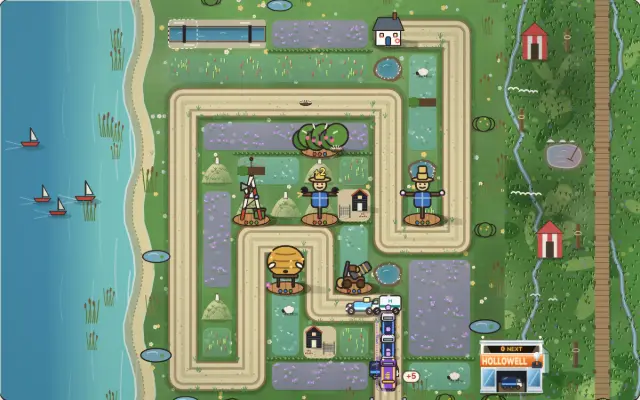
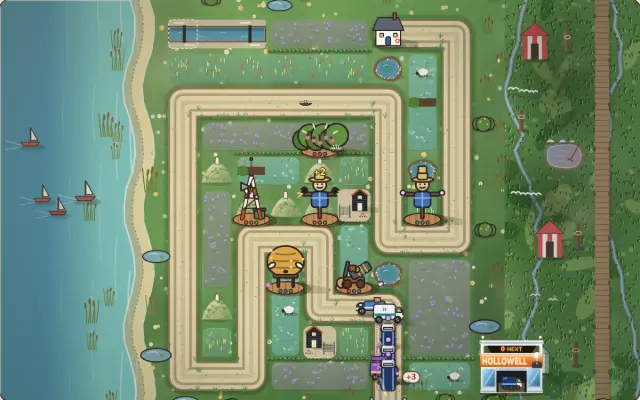
440 slice 1: Hedgerow 2D lit by one sun: vehicles, folk, dogs, hens and Cath cast shadows away from the act's sun (towers and houses already did); a warm wash on the sun side fading to a cool one on the shade side plus a light vignette; sea-lavender beds grey-green with muted mauve sprays (a mauve f
Claude-Session: https://claude.ai/code/session_01SimvMPB319cCQgjkucXjGQ

diff --git a/games/hedgerow/src/folkart.ts b/games/hedgerow/src/folkart.ts
@@ -4,7 +4,7 @@
 // running (leaning in, faster stride), hiding (crouched, arms over the head) and cheering (arms up, a hop).
 
 import type { Folk } from "./farmfolk";
-import { groundShadow, INK } from "./sprites";
+import { castShadow, groundShadow, INK } from "./sprites";
 
 type C = CanvasRenderingContext2D;
 
@@ -45,6 +45,8 @@ function person(ctx: C, f: Folk, x: number, y: number, s: number, t: number): vo
   const neck = hip - h * (0.34 - crouch * 0.3);
   const lean = p.run ? f.facing * h * 0.12 : 0;
   groundShadow(ctx, x, y, h * 0.42, h * 0.12, 0.22);
+  // Plan item 440: a figure throws its shadow away from the act's sun, like the towers and houses
+  castShadow(ctx, x, y, h * 0.12, h * 0.05, h * 0.9, 0.16);
   ctx.save();
   ctx.translate(x, 0);
   ctx.scale(f.facing, 1);
@@ -172,6 +174,7 @@ function dog(ctx: C, f: Folk, x: number, y: number, s: number, t: number): void 
   const lift = p.hop * L * 0.25 + p.bob * L * 0.6;
   const base = y - lift;
   groundShadow(ctx, x, y, L * 0.55, L * 0.14, 0.22);
+  castShadow(ctx, x, y, L * 0.45, L * 0.1, L * 0.7, 0.14);
   ctx.save();
   ctx.translate(x, base);
   ctx.scale(f.facing, 1);
@@ -237,6 +240,7 @@ function hen(ctx: C, f: Folk, x: number, y: number, s: number, t: number): void 
   const flap = p.run || p.cheer ? Math.abs(Math.sin(t * 20 + f.id)) : 0;
   const lift = p.hop * L * 0.4 + p.bob * L * 0.6;
   groundShadow(ctx, x, y, L * 0.5, L * 0.14, 0.2);
+  castShadow(ctx, x, y, L * 0.35, L * 0.1, L * 0.8, 0.14);
   ctx.save();
   ctx.translate(x, y - lift);
   ctx.scale(f.facing, 1);

diff --git a/games/hedgerow/src/fieldkitart.ts b/games/hedgerow/src/fieldkitart.ts
@@ -23,8 +23,9 @@ function rng(seed: number): () => number {
 const FILL: Partial<Record<BedLook, [string, string]>> = {
   // Glassy samphire: a bright yellow-green flush, reddening toward the foot.
   samphire: ["rgba(118,178,128,0.74)", "rgba(104,152,116,0.78)"],
-  // Sea-lavender: grey-green rosettes under a haze of mauve.
-  lavender: ["rgba(166,154,194,0.72)", "rgba(140,134,170,0.76)"],
+  // Sea-lavender: grey-green rosettes under a haze of mauve. Plan item 440: the bed itself is the rosettes' grey-green
+  // (a mauve fill read as purple board tiles); the mauve is only the flower sprays, a step down in value and chroma.
+  lavender: ["rgba(150,156,146,0.72)", "rgba(128,136,124,0.76)"],
   // Salt grazing: a short, blue-grey sward.
   saltgrass: ["rgba(136,198,176,0.72)", "rgba(108,174,156,0.76)"],
   // Hill oats: a green-gold crop in ear.
@@ -341,7 +342,7 @@ function scatter(ctx: C, look: BedLook, x: number, y: number, s: number, r01: ()
       for (let k = 0; k < 7; k++) {
         const a = -Math.PI / 2 + (r01() - 0.5) * 1.8;
         const d = s * (0.03 + r01() * 0.06);
-        ctx.fillStyle = k % 3 ? "rgba(168,128,206,0.95)" : "rgba(206,178,232,0.95)";
+        ctx.fillStyle = k % 3 ? "rgba(150,122,178,0.92)" : "rgba(186,168,206,0.92)";
         ctx.beginPath();
         ctx.arc(cx + Math.cos(a) * d, cy - s * 0.03 + Math.sin(a) * d * 0.8, s * 0.022, 0, Math.PI * 2);
         ctx.fill();

diff --git a/games/hedgerow/src/render.ts b/games/hedgerow/src/render.ts
@@ -1516,6 +1516,7 @@ export class Renderer {
       ctx.setLineDash([]);
     }
 
+    this.sunGrade(W, H, shadowDir(level.id));
     this.ambient(W, H, s, t);
 
     // Boss bar.
@@ -2299,6 +2300,27 @@ export class Renderer {
     }
     ctx.globalAlpha = 1;
     this.parts = this.parts.filter((p) => p.age < p.life);
+  }
+
+  /**
+   * Plan item 440: the field lit by one sun. A warm wash on the act's sun side fading to a cool one on the shadow
+   * side (the same direction the cast shadows fall), and a light vignette, so the flat tints read as one lit farm.
+   */
+  private sunGrade(W: number, H: number, away: { x: number; y: number }): void {
+    const { ctx } = this;
+    const cx = W / 2, cy = H / 2, R = Math.hypot(W, H) / 2;
+    const g = ctx.createLinearGradient(cx - away.x * R, cy - away.y * R, cx + away.x * R, cy + away.y * R);
+    g.addColorStop(0, "rgba(255,206,128,0.13)");
+    g.addColorStop(0.5, "rgba(255,206,128,0)");
+    g.addColorStop(0.5, "rgba(46,58,96,0)");
+    g.addColorStop(1, "rgba(46,58,96,0.12)");
+    ctx.fillStyle = g;
+    ctx.fillRect(0, 0, W, H);
+    const v = ctx.createRadialGradient(cx, cy, Math.min(W, H) * 0.42, cx, cy, R * 1.05);
+    v.addColorStop(0, "rgba(34,26,16,0)");
+    v.addColorStop(1, "rgba(34,26,16,0.2)");
+    ctx.fillStyle = v;
+    ctx.fillRect(0, 0, W, H);
   }
 
   private ambient(W: number, H: number, s: number, t: number): void {

diff --git a/games/hedgerow/src/sprites.ts b/games/hedgerow/src/sprites.ts
@@ -1813,6 +1813,8 @@ export function drawEnemy(ctx: C, look: EnemyLook, x: number, y: number, s0: num
   const lift = enemyLift(kind) * s0;
   const tt = t + look.phase;
   groundShadow(ctx, x, y, s * 0.3, s * 0.08, lift > 0 ? 0.15 : 0.25);
+  // Plan item 440: a vehicle on the lane throws a cast shadow away from the act's sun (a flier keeps its soft spot)
+  if (lift <= 0 && !look.ghost) castShadow(ctx, x, y, s * 0.28, s * 0.1, s * 0.5, 0.16);
   ctx.save();
   if (look.ghost) ctx.globalAlpha = 0.28 + Math.sin(tt * 6) * 0.06;
   const hover = lift > 0 ? Math.sin(tt * 3) * s0 * 0.04 : 0;
@@ -2300,6 +2302,8 @@ export function drawHero(ctx: C, look: HeroLook, x: number, y: number, s: number
     ctx.lineWidth = lw(s);
   }
   groundShadow(ctx, x, y, s * 0.2, s * 0.06, 0.3);
+  // Plan item 440: Cath throws her shadow away from the act's sun
+  if (!look.down) castShadow(ctx, x, y, s * 0.1, s * 0.04, s * 0.95, 0.18);
   ctx.save();
   ctx.translate(x, y);
   if (look.down) {
